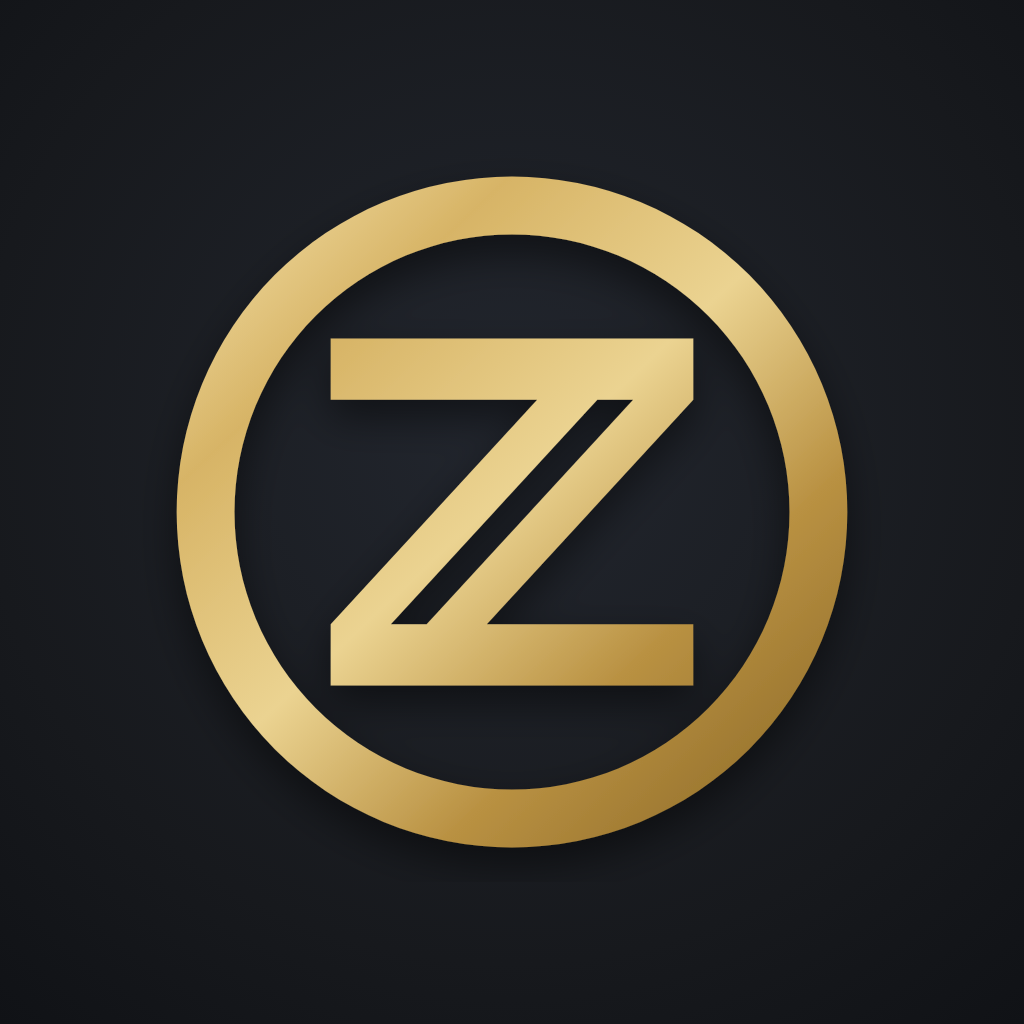
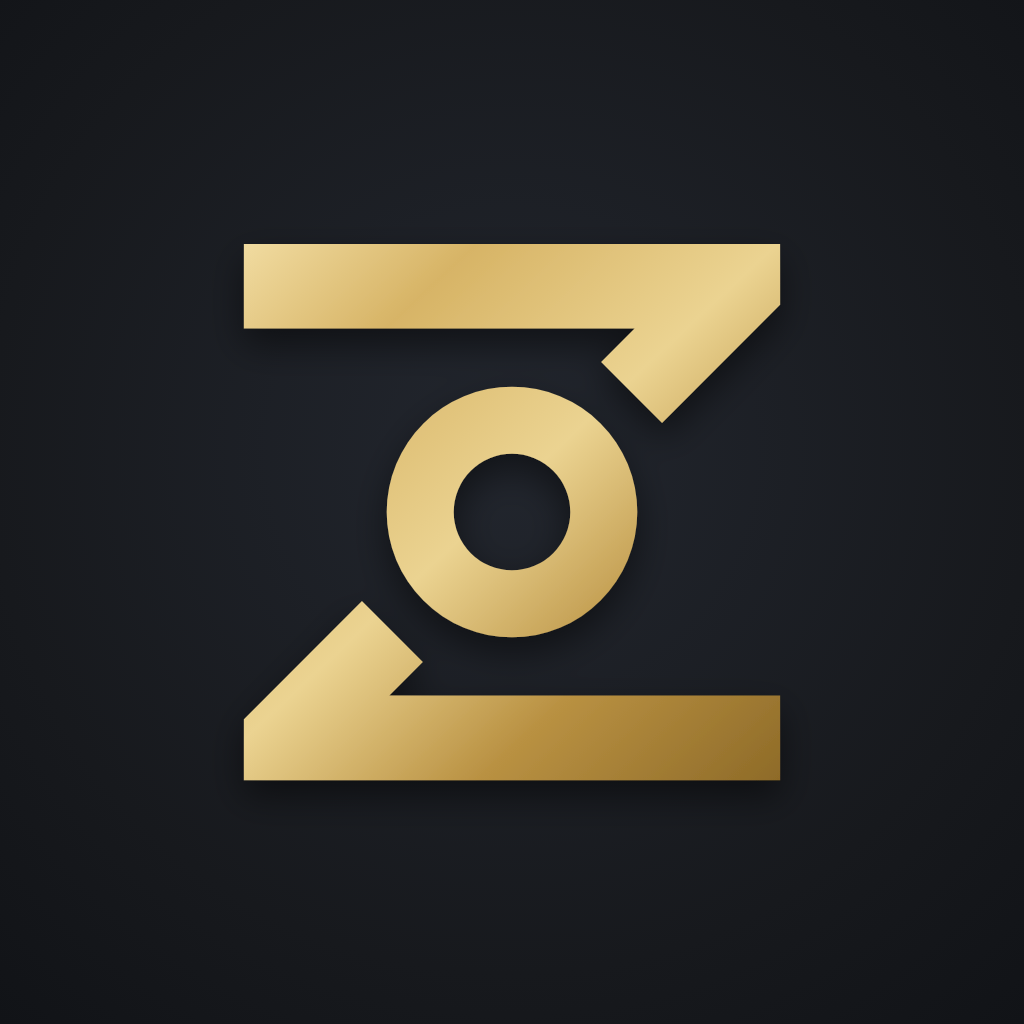
feat(brand,web): adopt S1 Zero-Interrupt Orbital Z minimalist identity (#359)
- Replace D3 medallion symbol masters with the owner-approved S1
  (Zero-Interrupt Orbital Z) minimalist startup monogram across brand/
  and web/public/images/, using 100% pure closed filled paths
  (fill-rule="nonzero"), 180-degree rotational symmetry, optical small-size
  favicon master (<28px), and genuine Manrope Bold wordmark outlines
- Regenerate ZARORBIT_Brand_Assets_Preview.png, ZARORBIT_Telegram_Avatar_1024.png,
  zarorbit-og.png, and zarorbit-apple-touch-icon.png in Chromium
- Update BrandLogo.tsx, brand.config.ts, and ZarorbitOrbitalMotion.tsx
  (twin Z arms and suspended central orbital 0 ring counter-rotating smoothly
  around the vertical Y-axis)
- Update brand/README.md, ZARORBIT_Design_Tokens_v1.0.json (v1.2.0), and
  ZARORBIT_Visual_Identity_Guidelines_v1.0.md to v1.2

Changed region(s): [[0.1562, 0.1562, 0.8438, 0.8438]]

diff --git a/web/components/BrandLogo.tsx b/web/components/BrandLogo.tsx
@@ -11,21 +11,20 @@ interface BrandLogoProps {
   withLink?: boolean;
 }
 
-// Single-source-of-truth D3 (Suspended-Core Orbital Z) pure closed paths (fill-rule="nonzero")
-const D3_PRIMARY_PATH =
-  "M 6.00 64 A 58 58 0 1 1 122.00 64 A 58 58 0 1 1 6.00 64 Z M 112.00 64 A 48 48 0 1 0 16.00 64 A 48 48 0 1 0 112.00 64 Z M 32.64 34.00 H 95.36 V 44.60 L 59.64 83.40 H 95.36 V 94.00 H 32.64 V 83.40 L 68.36 44.60 H 32.64 Z M 78.76 44.60 L 43.04 83.40 L 49.24 83.40 L 84.96 44.60 Z";
+// Single-source-of-truth S1 (Zero-Interrupt Orbital Z) pure closed paths (fill-rule="nonzero")
+const S1_PRIMARY_PATH =
+  "M 12 12 L 116 12 L 116 23.82 L 93.1 46.72 L 81.28 34.9 L 87.78 28.4 L 12 28.4 Z M 116 116 L 12 116 L 12 104.18 L 34.9 81.28 L 46.72 93.1 L 40.22 99.6 L 116 99.6 Z M 39.7 64 A 24.3 24.3 0 1 1 88.3 64 A 24.3 24.3 0 1 1 39.7 64 Z M 52.7 64 A 11.3 11.3 0 1 0 75.3 64 A 11.3 11.3 0 1 0 52.7 64 Z";
 
-const D3_FAVICON_PATH =
-  "M 4.00 64 A 60 60 0 1 1 124.00 64 A 60 60 0 1 1 4.00 64 Z M 112.50 64 A 48.5 48.5 0 1 0 15.50 64 A 48.5 48.5 0 1 0 112.50 64 Z M 32.70 33.50 H 95.30 V 45.00 L 60.90 83.00 H 95.30 V 94.50 H 32.70 V 83.00 L 67.10 45.00 H 32.70 Z M 77.70 45.00 L 43.30 83.00 L 50.30 83.00 L 84.70 45.00 Z";
+const S1_FAVICON_PATH =
+  "M 10 10 L 118 10 L 118 22.72 L 94.26 46.46 L 81.54 33.74 L 87.28 28 L 10 28 Z M 118 118 L 10 118 L 10 105.28 L 33.74 81.54 L 46.46 94.26 L 40.72 100 L 118 100 Z M 38.8 64 A 25.2 25.2 0 1 1 89.2 64 A 25.2 25.2 0 1 1 38.8 64 Z M 53.4 64 A 10.6 10.6 0 1 0 74.6 64 A 10.6 10.6 0 1 0 53.4 64 Z";
 
 // Genuine Manrope Bold (SIL OFL-1.1) wordmark outlines with optical kerning (must use fill-rule="nonzero")
 const WORDMARK_MANROPE_PATH =
   "M33.92 66L0 66L0 64.99L21.69 28.91L1.53 28.91L1.53 22L34.44 22L34.44 23.04L12.86 59.06L33.92 59.06 M49.99 66L42.41 66L56.29 22L67.07 22L80.94 66L73.37 66L60.78 26.52L62.43 26.52L49.99 66M73.24 56.47L50.14 56.47L50.14 49.59L73.24 49.59 M97.61 66L90.24 66L90.24 22L108.42 22Q109.07 22 110.08 22.05Q111.08 22.09 111.94 22.24Q115.76 22.83 118.25 24.78Q120.74 26.74 121.95 29.72Q123.15 32.69 123.15 36.33Q123.15 41.71 120.43 45.57Q117.71 49.44 112.09 50.36L108.94 50.63L97.61 50.63L97.61 66M123.86 66L115.51 66L106.84 48.09L114.32 46.44L123.86 66M97.61 28.91L97.61 43.76L108.12 43.76Q108.73 43.76 109.49 43.69Q110.26 43.63 110.90 43.45Q112.73 42.99 113.79 41.83Q114.84 40.67 115.28 39.20Q115.73 37.74 115.73 36.33Q115.73 34.92 115.28 33.44Q114.84 31.96 113.79 30.80Q112.73 29.64 110.90 29.18Q110.26 29 109.49 28.95Q108.73 28.91 108.12 28.91 M152.89 66.92Q146.29 66.92 141.58 64.03Q136.88 61.14 134.35 55.98Q131.83 50.81 131.83 44Q131.83 37.19 134.35 32.02Q136.88 26.86 141.58 23.97Q146.29 21.08 152.89 21.08Q159.49 21.08 164.21 23.97Q168.93 26.86 171.45 32.02Q173.97 37.19 173.97 44Q173.97 50.81 171.45 55.98Q168.93 61.14 164.21 64.03Q159.49 66.92 152.89 66.92M152.89 59.98Q157.32 60.01 160.27 58.02Q163.21 56.04 164.70 52.43Q166.18 48.83 166.18 44Q166.18 39.17 164.70 35.61Q163.21 32.05 160.27 30.07Q157.32 28.08 152.89 28.02Q148.46 27.99 145.52 29.98Q142.59 31.96 141.11 35.57Q139.63 39.17 139.63 44Q139.63 48.83 141.09 52.39Q142.56 55.95 145.51 57.93Q148.46 59.92 152.89 59.98 M191.34 66L183.98 66L183.98 22L202.16 22Q202.80 22 203.81 22.05Q204.82 22.09 205.68 22.24Q209.49 22.83 211.98 24.78Q214.47 26.74 215.68 29.72Q216.89 32.69 216.89 36.33Q216.89 41.71 214.17 45.57Q211.45 49.44 205.83 50.36L202.68 50.63L191.34 50.63L191.34 66M217.59 66L209.25 66L200.57 48.09L208.06 46.44L217.59 66M191.34 28.91L191.34 43.76L201.86 43.76Q202.47 43.76 203.23 43.69Q203.99 43.63 204.64 43.45Q206.47 42.99 207.52 41.83Q208.58 40.67 209.02 39.20Q209.46 37.74 209.46 36.33Q209.46 34.92 209.02 33.44Q208.58 31.96 207.52 30.80Q206.47 29.64 204.64 29.18Q203.99 29 203.23 28.95Q202.47 28.91 201.86 28.91 M247.83 66L228.61 66L228.61 22L246.06 22Q250.52 22 253.38 23.79Q256.24 25.58 257.63 28.36Q259.02 31.14 259.02 34.10Q259.02 37.74 257.29 40.27Q255.56 42.81 252.60 43.69L252.60 42.17Q256.76 43.11 258.91 46.11Q261.06 49.10 261.06 52.92Q261.06 56.83 259.57 59.77Q258.07 62.70 255.12 64.35Q252.17 66 247.83 66M236.07 46.44L236.07 59.06L246.92 59.06Q248.84 59.06 250.37 58.28Q251.90 57.51 252.77 56.08Q253.64 54.66 253.64 52.71Q253.64 50.94 252.88 49.53Q252.11 48.13 250.64 47.28Q249.18 46.44 247.13 46.44L236.07 46.44M236.07 28.88L236.07 39.57L245.97 39.57Q247.56 39.57 248.81 38.96Q250.06 38.35 250.80 37.16Q251.53 35.96 251.53 34.22Q251.53 31.93 250.06 30.40Q248.60 28.88 245.97 28.88 M279.15 66L271.79 66L271.79 22L279.15 22 M310.15 66L302.79 66L302.79 28.91L288.55 28.91L288.55 22L324.39 22L324.39 28.91L310.15 28.91";
 
 /**
- * Pure-vector Suspended-Core Orbital Z (D3) primary symbol master (128x128 viewBox).
- * Automatically uses the optical small-scale master (< 28px) with slightly bolder rails
- * and wider diagonal aperture so the mark remains sharp down to 16px favicon sizes.
+ * Pure-vector Zero-Interrupt Orbital Z (S1) primary symbol master (128x128 viewBox).
+ * Automatically uses the optical small-scale master (< 28px) with bolder bars and ring wall so the mark remains sharp down to 16px favicon sizes.
  */
 export const ZarorbitSymbolSvg: React.FC<{
   sizePx?: number;
@@ -53,7 +52,7 @@ export const ZarorbitSymbolSvg: React.FC<{
       className={className}
     >
       <path
-        d={isSmallOptical ? D3_FAVICON_PATH : D3_PRIMARY_PATH}
+        d={isSmallOptical ? S1_FAVICON_PATH : S1_PRIMARY_PATH}
         fill={fill}
         fillRule="nonzero"
       />
@@ -63,7 +62,7 @@ export const ZarorbitSymbolSvg: React.FC<{
 
 /**
  * Pure-vector separated [Symbol] ZARORBIT horizontal lockup (417x88 viewBox).
- * Uses the owner-approved Suspended-Core Orbital Z paired with genuine Manrope Bold outlines.
+ * Uses the owner-approved Zero-Interrupt Orbital Z (S1) paired with genuine Manrope Bold outlines.
  */
 export const ZarorbitHorizontalLockupSvg: React.FC<{
   heightPx?: number;
@@ -85,7 +84,7 @@ export const ZarorbitHorizontalLockupSvg: React.FC<{
       className={className}
     >
       <g transform="translate(4,12) scale(0.5)">
-        <path d={D3_PRIMARY_PATH} fill={symbolColor} fillRule="nonzero" />
+        <path d={S1_PRIMARY_PATH} fill={symbolColor} fillRule="nonzero" />
       </g>
       <g transform="translate(82,0)" fill={wordColor} fillRule="nonzero">
         <path d={WORDMARK_MANROPE_PATH} />
@@ -98,7 +97,7 @@ export const ZarorbitHorizontalLockupSvg: React.FC<{
 export const ZarorbitIntegratedLockupSvg = ZarorbitHorizontalLockupSvg;
 
 /**
- * Clean Obsidian emblem container holding the pure-vector D3 symbol.
+ * Clean Obsidian emblem container holding the pure-vector S1 symbol.
  */
 export const BrandEmblem: React.FC<{
   sizePx?: number;
@@ -143,7 +142,7 @@ export const BrandHeroShowcase: React.FC<{ className?: string }> = ({
         </span>
       </div>
 
-      {/* Central Vector Orbital Medallion (clean Obsidian stage, no extra orbit rings behind the mark) */}
+      {/* Central Vector Minimalist Monogram (clean Obsidian stage, no extra orbit rings behind the mark) */}
       <div className="relative z-10 my-6 flex items-center justify-center">
         <div
           className="relative w-56 h-56 rounded-2xl border border-[#2B303A] flex items-center justify-center"

diff --git a/web/components/ZarorbitOrbitalMotion.tsx b/web/components/ZarorbitOrbitalMotion.tsx
@@ -59,8 +59,8 @@ function rotatePoint3D(
 
 /**
  * Restrained architectural orbital visualization featuring the owner-approved
- * Suspended-Core Orbital Z (D3) centerpiece where both the outer bullion ring
- * and the suspended double-rail Z rotate continuously around the vertical (Y) axis
+ * Zero-Interrupt Orbital Z (S1) centerpiece where both the twin Z arms and the
+ * suspended central orbital 0 ring rotate continuously around the vertical (Y) axis
  * inside two restrained orbital tracks. Honors `prefers-reduced-motion: reduce`.
  */
 export default function ZarorbitOrbitalMotion({
@@ -142,24 +142,25 @@ export default function ZarorbitOrbitalMotion({
       };
     };
 
-    const zOuter: [number, number][] = [
-      [32.64, 34.0],
-      [95.36, 34.0],
-      [95.36, 44.6],
-      [59.64, 83.4],
-      [95.36, 83.4],
-      [95.36, 94.0],
-      [32.64, 94.0],
-      [32.64, 83.4],
-      [68.36, 44.6],
-      [32.64, 44.6],
+    // Exact S1 (Zero-Interrupt Orbital Z) coordinates on 128x128 master grid
+    const s1UpperZ: [number, number][] = [
+      [12.0, 12.0],
+      [116.0, 12.0],
+      [116.0, 23.82],
+      [93.1, 46.72],
+      [81.28, 34.9],
+      [87.78, 28.4],
+      [12.0, 28.4],
     ];
 
-    const zSlitCCW: [number, number][] = [
-      [78.76, 44.6],
-      [43.04, 83.4],
-      [49.24, 83.4],
-      [84.96, 44.6],
+    const s1LowerZ: [number, number][] = [
+      [116.0, 116.0],
+      [12.0, 116.0],
+      [12.0, 104.18],
+      [34.9, 81.28],
+      [46.72, 93.1],
+      [40.22, 99.6],
+      [116.0, 99.6],
     ];
 
     let animId = 0;
@@ -186,23 +187,23 @@ export default function ZarorbitOrbitalMotion({
       return grad;
     };
 
-    const drawRingLayer = (rotX: number, rotY: number, zDepth: number, isEdge: boolean) => {
-      const s = 1.42;
-      const ringSteps = 72;
+    const drawCoreRingLayer = (rotX: number, rotY: number, zDepth: number, isEdge: boolean) => {
+      const s = 1.48;
+      const ringSteps = 56;
       const proj = (gx: number, gy: number) =>
         project(rotatePoint3D((gx - 64) * s, (gy - 64) * s, zDepth, rotX, rotY, 0));
 
       ctx.beginPath();
       for (let i = 0; i <= ringSteps; i++) {
         const a = (i / ringSteps) * Math.PI * 2;
-        const p = proj(64 + 58 * Math.cos(a), 64 + 58 * Math.sin(a));
+        const p = proj(64 + 24.3 * Math.cos(a), 64 + 24.3 * Math.sin(a));
         if (i === 0) ctx.moveTo(p.sx, p.sy);
         else ctx.lineTo(p.sx, p.sy);
       }
       ctx.closePath();
       for (let i = ringSteps; i >= 0; i--) {
         const a = (i / ringSteps) * Math.PI * 2;
-        const p = proj(64 + 48 * Math.cos(a), 64 + 48 * Math.sin(a));
+        const p = proj(64 + 11.3 * Math.cos(a), 64 + 11.3 * Math.sin(a));
         if (i === ringSteps) ctx.moveTo(p.sx, p.sy);
         else ctx.lineTo(p.sx, p.sy);
       }
@@ -211,47 +212,46 @@ export default function ZarorbitOrbitalMotion({
       ctx.fill("evenodd");
     };
 
-    const drawZLayer = (rotX: number, rotY: number, zDepth: number, isEdge: boolean) => {
-      const s = 1.42;
+    const drawZArmsLayer = (rotX: number, rotY: number, zDepth: number, isEdge: boolean) => {
+      const s = 1.48;
       const proj = (gx: number, gy: number) =>
         project(rotatePoint3D((gx - 64) * s, (gy - 64) * s, zDepth, rotX, rotY, 0));
 
       ctx.beginPath();
-      zOuter.forEach(([x, y], i) => {
+      s1UpperZ.forEach(([x, y], i) => {
         const p = proj(x, y);
         if (i === 0) ctx.moveTo(p.sx, p.sy);
         else ctx.lineTo(p.sx, p.sy);
       });
       ctx.closePath();
-      zSlitCCW.forEach(([x, y], i) => {
+      s1LowerZ.forEach(([x, y], i) => {
         const p = proj(x, y);
         if (i === 0) ctx.moveTo(p.sx, p.sy);
         else ctx.lineTo(p.sx, p.sy);
       });
       ctx.closePath();
       ctx.fillStyle = makeGoldGradient(rotY, isEdge);
-      ctx.fill("evenodd");
+      ctx.fill("nonzero");
     };
 
-    const drawSpinningD3Medallion = (rotX: number, ringRotY: number, zRotY: number) => {
+    const drawSpinningS1Mark = (rotX: number, armsRotY: number, coreRotY: number) => {
       ctx.save();
-      // Draw subtle extruded bullion thickness layers back-to-front along each piece's own local normal
-      const ringSign = Math.cos(ringRotY) >= 0 ? 1 : -1;
-      const zSign = Math.cos(zRotY) >= 0 ? 1 : -1;
+      const armsSign = Math.cos(armsRotY) >= 0 ? 1 : -1;
+      const coreSign = Math.cos(coreRotY) >= 0 ? 1 : -1;
       const depths = [-3.2, -1.6, 0, 1.6, 3.2];
 
-      // Outer bullion ring spinning around the vertical (Y) axis
+      // Twin Z arms spinning around the vertical (Y) axis
       for (let i = 0; i < depths.length; i++) {
-        const d = depths[i] * ringSign;
+        const d = depths[i] * armsSign;
         const isFrontFace = i === depths.length - 1;
-        drawRingLayer(rotX, ringRotY, d, !isFrontFace);
+        drawZArmsLayer(rotX, armsRotY, d, !isFrontFace);
       }
 
-      // Suspended double-rail Z core spinning independently around the vertical (Y) axis
+      // Suspended central orbital 0 ring counter-spinning around the vertical (Y) axis
       for (let i = 0; i < depths.length; i++) {
-        const d = depths[i] * zSign;
+        const d = depths[i] * coreSign;
         const isFrontFace = i === depths.length - 1;
-        drawZLayer(rotX, zRotY, d, !isFrontFace);
+        drawCoreRingLayer(rotX, coreRotY, d, !isFrontFace);
       }
       ctx.restore();
     };
@@ -347,11 +347,11 @@ export default function ZarorbitOrbitalMotion({
       backJobs.sort((a, b) => a.z - b.z);
       for (const j of backJobs) j.draw();
 
-      // Continuous vertical-axis (Y) spin for both the outer ring and suspended Z core
+      // Continuous vertical-axis (Y) spin for both the twin Z arms and suspended orbital 0 core
       const rotX = prefersReducedMotion ? 0.06 : Math.cos(elapsed * 0.35) * 0.06 + ptr.y * 0.16;
-      const ringRotY = prefersReducedMotion ? 0.18 : elapsed * 0.55 + ptr.x * 0.4;
-      const zRotY = prefersReducedMotion ? -0.14 : -elapsed * 0.8 + ptr.x * 0.5;
-      drawSpinningD3Medallion(rotX, ringRotY, zRotY);
+      const armsRotY = prefersReducedMotion ? 0.14 : elapsed * 0.55 + ptr.x * 0.4;
+      const coreRotY = prefersReducedMotion ? -0.18 : -elapsed * 0.85 + ptr.x * 0.5;
+      drawSpinningS1Mark(rotX, armsRotY, coreRotY);
 
       frontJobs.sort((a, b) => a.z - b.z);
       for (const j of frontJobs) j.draw();
@@ -418,7 +418,7 @@ export default function ZarorbitOrbitalMotion({
       <canvas
         ref={canvasRef}
         role="img"
-        aria-label="نمودار تعاملی مدالیون مداری چرخان ZARORBIT"
+        aria-label="نمودار تعاملی نشان مداری چرخان ZARORBIT"
         className="w-full max-w-[390px] aspect-square block cursor-grab active:cursor-grabbing relative z-10"
       />
 

diff --git a/web/config/brand.config.ts b/web/config/brand.config.ts
@@ -58,7 +58,7 @@ export const brandConfig: BrandConfig = {
   name: {
     fa: "زَر اوربیت",
     en: "ZARORBIT",
-    symbolName: "Suspended-Core Orbital Z",
+    symbolName: "Zero-Interrupt Orbital Z",
     ecosystemFa: "زیرساخت شفاف معاملات طلا و داراییها — زَر اوربیت",
   },
   slogan: {

diff --git a/brand/README.md b/brand/README.md
@@ -1,13 +1,13 @@
-# ZARORBIT Visual Identity System v1.1
+# ZARORBIT Visual Identity System v1.2
 
-Executive visual identity system, pure-vector logo masters, WCAG 2.2 AA verified design tokens, and product UI integration derived from **ZARORBIT Brand Book v1.1** and refined with the owner-approved **Suspended-Core Orbital Z (`D3`)** symbol (23 November 2026).
+Executive visual identity system, pure-vector logo masters, WCAG 2.2 AA verified design tokens, and product UI integration derived from **ZARORBIT Brand Book v1.1** and refined with the owner-approved **Zero-Interrupt Orbital Z (`S1`)** minimalist startup monogram (24 November 2026).
 
 ## Locked Brand Decisions
 
 - **Official Latin Name:** `ZARORBIT` (uppercase, no hyphen or space)
 - **Official Persian Spelling:** `زَر اوربیت`
 - **Official Domains & Telegram Handles:** `zarorbit.ir`, `zarorbit.com`, `@zarorbitbot`, `@zarorbit`
-- **Approved Logo Master:** **Suspended-Core Orbital Z (`D3`)** — straight-angle double-rail `Z` floating inside a closed bullion orbital ring (`4.6px` concentric halo), 100% closed filled paths (`fill-rule="nonzero"`), zero un-expanded strokes, zero Zcash vertical stems, zero metallic gradient seams.
+- **Approved Logo Master:** **Zero-Interrupt Orbital Z (`S1`)** — open geometric `Z` with 180° rotational symmetry split cleanly around a floating central orbital `0` ring (`8.5u` concentric halo), 100% closed filled paths (`fill-rule="nonzero"`), zero coin medallion, zero un-expanded strokes, zero Zcash vertical stems.
 - **Lockup Consistency:** Separated `[Symbol] ZARORBIT` lockup across Horizontal, Vertical, and Monochrome variants using genuine **Manrope Bold (SIL OFL-1.1)** font outlines with manual optical kerning.
 - **Telegram Bot Copy Policy (Pilot Phase):** Live `TelegramBot` user messages intentionally remain **white-label** (`طلافروشی خود`) to fit the shop-based gold dealer model; `ZARORBIT` branding governs the web portal, official domains, and `@zarorbit` / `@zarorbitbot` public channels.
 - **Iconography Boundary:** `lucide-react` is the standard UI icon library in `web/`; [`system/ZARORBIT_Icon_System_v1.0.svg`](./system/ZARORBIT_Icon_System_v1.0.svg) is reserved for brand diagrams, pitch decks, and marketing visuals.
@@ -16,13 +16,13 @@ Executive visual identity system, pure-vector logo masters, WCAG 2.2 AA verified
 
 | Artifact | Purpose |
 |---|---|
-| [`ZARORBIT_Visual_Identity_Guidelines_v1.0.md`](./ZARORBIT_Visual_Identity_Guidelines_v1.0.md) | Complete Markdown reference (updated for `D3` master, locked Persian spelling, white-label bot policy, WCAG 2.2 AA audit) |
+| [`ZARORBIT_Visual_Identity_Guidelines_v1.0.md`](./ZARORBIT_Visual_Identity_Guidelines_v1.0.md) | Complete Markdown reference (updated for `S1` master, locked Persian spelling, white-label bot policy, WCAG 2.2 AA audit) |
 | [`ZARORBIT_Visual_Identity_Guidelines_v1.0.pdf`](./ZARORBIT_Visual_Identity_Guidelines_v1.0.pdf) | Initial v1.0 editorial manual archive (PDF; Markdown above is the canonical v1.1 reference) |
-| [`ZARORBIT_Logo_Symbol_Primary.svg`](./ZARORBIT_Logo_Symbol_Primary.svg) | Primary `D3` Suspended-Core Orbital `Z` vector master (`128×128`) |
+| [`ZARORBIT_Logo_Symbol_Primary.svg`](./ZARORBIT_Logo_Symbol_Primary.svg) | Primary `S1` Zero-Interrupt Orbital `Z` vector master (`128×128`) |
 | [`ZARORBIT_Logo_Horizontal_Dark.svg`](./ZARORBIT_Logo_Horizontal_Dark.svg) | Separated `[Symbol] ZARORBIT` horizontal lockup (`417×88`) for dark Obsidian surfaces |
 | [`ZARORBIT_Logo_Horizontal_Light.svg`](./ZARORBIT_Logo_Horizontal_Light.svg) | Separated `[Symbol] ZARORBIT` horizontal lockup (`417×88`, WCAG AA/AAA: `#82611C` symbol + `#17191D` wordmark) for Ivory / light surfaces |
-| [`ZARORBIT_Design_Tokens_v1.0.json`](./ZARORBIT_Design_Tokens_v1.0.json) | W3C Design Tokens (`v1.1.0`) covering Light/Dark themes, typography, spacing, borders, shadows, components |
-| [`ZARORBIT_Brand_Assets_Preview.png`](./ZARORBIT_Brand_Assets_Preview.png) | Master visual preview sheet of `D3` lockups, monochrome, metallic campaign, app icons, Telegram avatar, and WCAG tokens |
+| [`ZARORBIT_Design_Tokens_v1.0.json`](./ZARORBIT_Design_Tokens_v1.0.json) | W3C Design Tokens (`v1.2.0`) covering Light/Dark themes, typography, spacing, borders, shadows, components |
+| [`ZARORBIT_Brand_Assets_Preview.png`](./ZARORBIT_Brand_Assets_Preview.png) | Master visual preview sheet of `S1` lockups, monochrome, metallic campaign, app icons, Telegram avatar, and WCAG tokens |
 | [`ZARORBIT_Telegram_Avatar_1024.png`](./ZARORBIT_Telegram_Avatar_1024.png) | Ready-to-upload `1024×1024` metallic circular-safe avatar for `@zarorbit` and `@zarorbitbot` |
 
 ## Extended Logo Variants (`logo-variants/`)
@@ -66,8 +66,8 @@ Legacy v1.0 HTML/PNG concept explorations retained for reference:
 
 ## Web Interface Integration (`web/`)
 
-The [`web/`](../web/config/brand.config.ts) application is aligned with the locked `v1.1` identity and current product reality:
+The [`web/`](../web/config/brand.config.ts) application is aligned with the locked `v1.2` identity and current product reality:
 1. **Product-First Homepage (`/`):** Leads with today's live gold trading infrastructure (`طلای آبشده ۱۸ عیار`, Telegram bot `@zarorbitbot`, `0.00%` commission / transparent spread, cross-asset dealer-book ledger) with zero hardcoded fake market prices and zero internal design-sprint labels.
 2. **Dedicated Ecosystem Roadmap ([`/vision`](../web/app/vision/page.tsx)):** Hosts the long-term multi-asset (`RWA`, `Crypto`, `NFT`, `Progressive DAO`, `AI/XR`) vision with explicit maturity tags.
-3. **Synced Pure-Vector Assets:** `web/public/images/` holds byte-for-byte copies of the `D3` SVGs ([`zarorbit-logo-dark.svg`](../web/public/images/zarorbit-logo-dark.svg), [`zarorbit-symbol.svg`](../web/public/images/zarorbit-symbol.svg), [`zarorbit-favicon.svg`](../web/public/images/zarorbit-favicon.svg)) alongside regenerated `zarorbit-og.png` and `zarorbit-apple-touch-icon.png`.
-4. **React Components:** [`BrandLogo.tsx`](../web/components/BrandLogo.tsx) renders the `D3` symbol and separated `[Symbol] ZARORBIT` lockup (`Manrope Bold` outlines, `fillRule="nonzero"`), and [`ZarorbitOrbitalMotion.tsx`](../web/components/ZarorbitOrbitalMotion.tsx) renders the 3D-tilting `D3` orbital medallion with `prefers-reduced-motion` support.
+3. **Synced Pure-Vector Assets:** `web/public/images/` holds byte-for-byte copies of the `S1` SVGs ([`zarorbit-logo-dark.svg`](../web/public/images/zarorbit-logo-dark.svg), [`zarorbit-symbol.svg`](../web/public/images/zarorbit-symbol.svg), [`zarorbit-favicon.svg`](../web/public/images/zarorbit-favicon.svg)) alongside regenerated `zarorbit-og.png` and `zarorbit-apple-touch-icon.png`.
+4. **React Components:** [`BrandLogo.tsx`](../web/components/BrandLogo.tsx) renders the `S1` symbol and separated `[Symbol] ZARORBIT` lockup (`Manrope Bold` outlines, `fillRule="nonzero"`), and [`ZarorbitOrbitalMotion.tsx`](../web/components/ZarorbitOrbitalMotion.tsx) renders the 3D-spinning `S1` Zero-Interrupt Orbital Z centerpiece with `prefers-reduced-motion` support.

diff --git a/brand/ZARORBIT_Visual_Identity_Guidelines_v1.0.md b/brand/ZARORBIT_Visual_Identity_Guidelines_v1.0.md
@@ -1,7 +1,7 @@
 <div dir="rtl" style="direction: rtl; text-align: right; line-height: 1.8;">
 
-# سند راهنمای هویت بصری ZARORBIT — نسخه ۱.۱ (بهروزرسانی لوگوی مصوب `D3`)
-## ZARORBIT Visual Identity Guidelines v1.1
+# سند راهنمای هویت بصری ZARORBIT — نسخه ۱.۲ (بهروزرسانی لوگوی مصوب `S1`)
+## ZARORBIT Visual Identity Guidelines v1.2
 
 **مبنای راهبردی:** `ZARORBIT Brand Book v1.1` (۱۱ نوامبر ۲۰۲۶) + بازنگری هویت بصری و ممیزی فنی ۲۳ نوامبر ۲۰۲۶  
 **وضعیت سند:** نسخه مصوب و جاری (قفلشده بر پایه انتخاب نهایی مالک برند)  
@@ -13,12 +13,12 @@
 
 ---
 
-## یادداشت بهروزرسانی نسخه ۱.۱ (۲۳ نوامبر ۲۰۲۶ — تصمیمهای قفلشده مالک برند)
+## یادداشت بهروزرسانی نسخه ۱.۲ (۲۴ نوامبر ۲۰۲۶ — تصمیمهای قفلشده مالک برند)
 
 پس از ممیزی تخصصی و تست رندر واقعی در Chromium، پنج تصمیم بنیادین در سیستم هویت بصری قفل و جایگزین پیشنویس v1.0 (`R1` و `[R1]ARORBIT`) شد:
 
-1. **مستر رسمی لوگو (`D3 — Suspended-Core Orbital Z`):** بهجای مونوگرام بیضوی `R1` (که در رندر واقعی دارای پله غیرمماس `0.76` واحدی، درز در گرادیان متالیک و ابهام خوانایی در نگاه اول بود)، مدالیون **`D3`** تصویب شد: یک حرف **`Z` خطمستقیم و سنگین با شکاف موازی دقیق وسط قطر (`Double-Rail Z`)** که با هاله تنفس هممرکز (`4.6px`) درون یک حلقه ضخیم مداری معلق است — ۱۰۰٪ مسیر برداری بسته (`fill-rule="nonzero"`)، بدون هیچ stroke باز، بدون پایههای عمودی شبه`Zcash` و بدون درز در نسخه متالیک.
-2. **قفل مجزای یکپارچه (`[Symbol] ZARORBIT`) با تایپوگرافی واقعی `Manrope Bold`:** جایگزینی شکننده `[R1]ARORBIT` و حروف دستساز SVG کنار گذاشته شد. در تمام نسخههای افقی (`417×88`)، عمودی (`320×184`) و تکرنگ (`Monochrome`)، نماد `D3` بهصورت مجزا در کنار یا بالای کلمه کامل `ZARORBIT` (تبدیلشده از فونت رسمی `Manrope Bold — OFL-1.1` با `Overshoot` واقعی حرف `O` و کرنینگ اپتیکال دستی) قرار میگیرد.
+1. **مستر رسمی لوگو (`S1 — Zero-Interrupt Orbital Z`):** پس از بازبینی نسخه زنده و برگزاری شورای طراحی چندمدلی (۵ مدل مستقل)، بهجای مدالیون سکهای `D3`، مونوگرام مینیمال استارتاپی **`S1`** تصویب شد: یک حرف **`Z` باز با تقارن چرخشی ۱۸۰ درجه** که قطر مرکزی آن با فاصله تنفس هممرکز (`8.5` واحد) توسط یک **حلقه مداری `0` معلق** قطع میشود — ۱۰۰٪ مسیر برداری بسته (`fill-rule="nonzero"`)، بدون قاب سکهای، بدون stroke باز، بدون پایههای عمودی شبه`Zcash` و خوانا تا سایز فاویکون `16px` و تکرنگ.
+2. **قفل مجزای یکپارچه (`[Symbol] ZARORBIT`) با تایپوگرافی واقعی `Manrope Bold`:** جایگزینی شکننده `[R1]ARORBIT` و حروف دستساز SVG کنار گذاشته شد. در تمام نسخههای افقی (`417×88`)، عمودی (`320×184`) و تکرنگ (`Monochrome`)، نماد `S1` بهصورت مجزا در کنار یا بالای کلمه کامل `ZARORBIT` (تبدیلشده از فونت رسمی `Manrope Bold — OFL-1.1` با `Overshoot` واقعی حرف `O` و کرنینگ اپتیکال دستی) قرار میگیرد.
 3. **سیاست White-Label برای ربات تلگرام زنده (فاز پایلوت):** با تایید مالک برند، متن پیامهای کاربری در ربات تلگرام (`TelegramBot`) در فاز پایلوت فعلی همچنان بهصورت White-Label (`طلافروشی خود`) باقی میماند تا با مدل همکاری طلافروشان همخوان باشد؛ هویت بصری `ZARORBIT` روی وبسایت، دامنههای رسمی و کانالهای عمومی (`@zarorbit` / `@zarorbitbot`) اعمال میشود.
 4. **مرز سیستم آیکونها:** کتابخانه **`lucide-react`** استاندارد رسمی آیکونهای رابط کاربری در `web/` است و مجموعه برداری [`ZARORBIT_Icon_System_v1.0.svg`](./system/ZARORBIT_Icon_System_v1.0.svg) برای دیاگرامهای برند، اسلایدهای ارائه و گرافیکهای بازاریابی استفاده میشود.
 5. **آواتار اختصاصی تلگرام:** فایلهای [`ZARORBIT_Logo_Telegram_Avatar.svg`](./logo-variants/ZARORBIT_Logo_Telegram_Avatar.svg) و [`ZARORBIT_Telegram_Avatar_1024.png`](./ZARORBIT_Telegram_Avatar_1024.png) با حاشیه امن حدود `۱۶٪` ابسیدین اطراف حلقه طلایی تولید شدند تا در برش دایرهای تلگرام (`@zarorbit` / `@zarorbitbot`) شبیه مدال طلایی متوازن دیده شوند.
